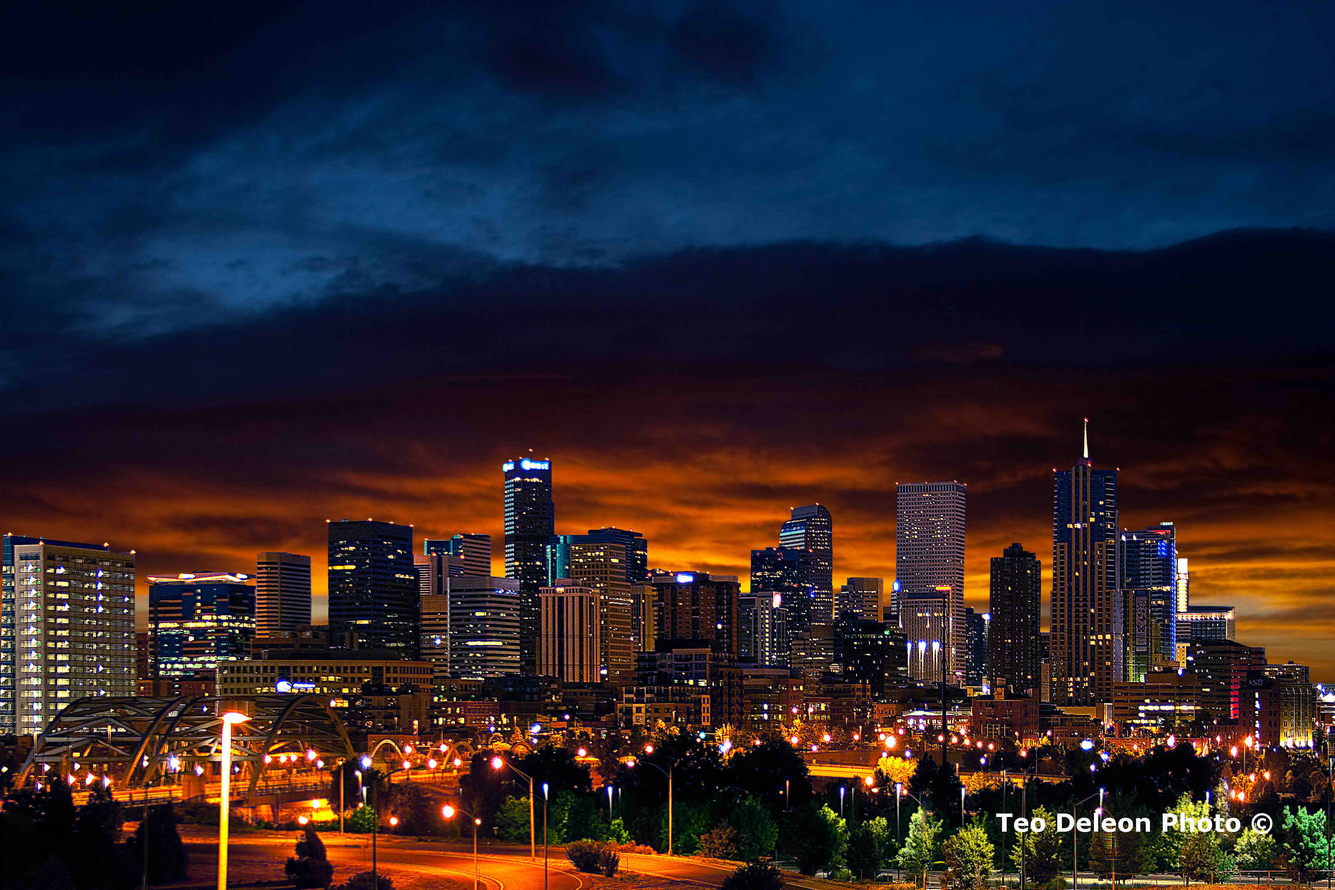
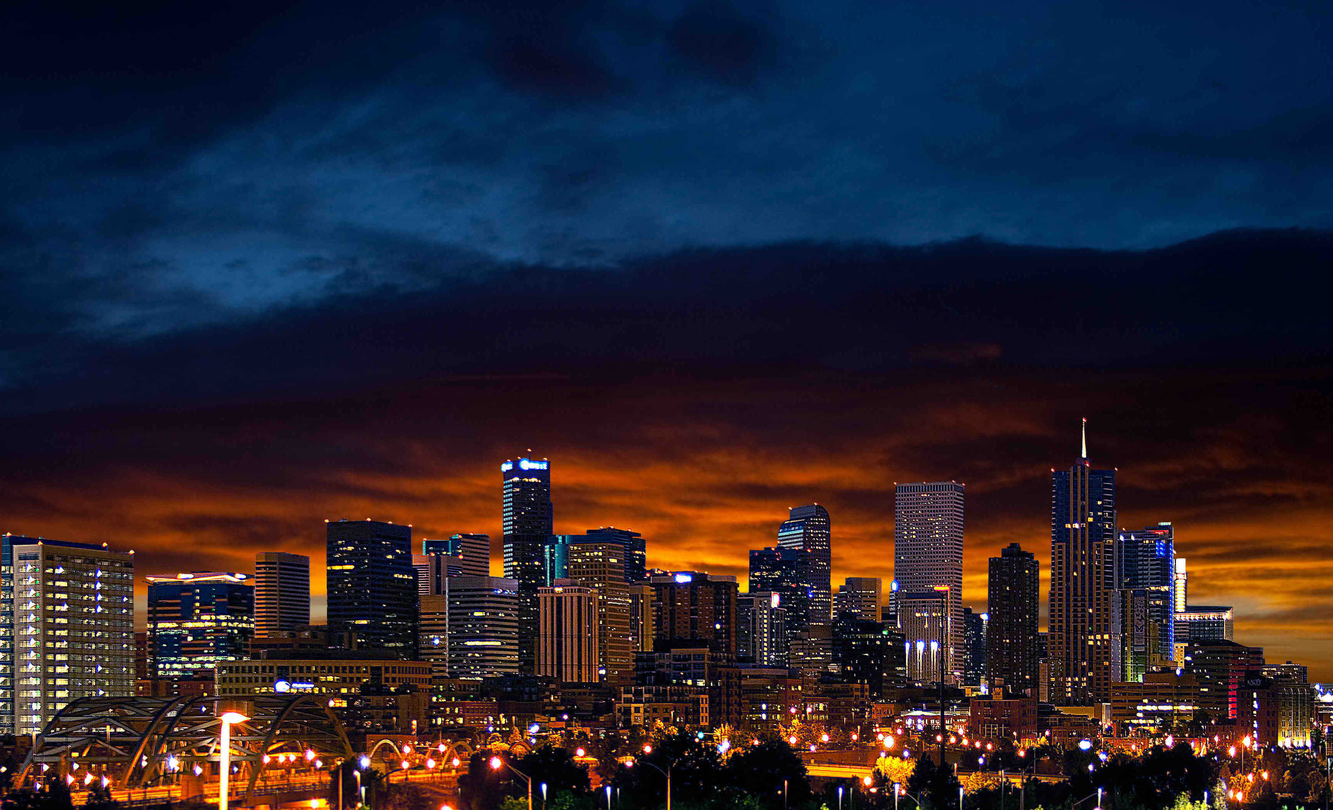
mess with images and css, a little clean up

diff --git a/assets/css/home.css b/assets/css/home.css
@@ -1,21 +1,20 @@
 body {
-  background-image: url('../images/creek.jpg');
+  background: url(../images/denver-skyline.jpeg) no-repeat center center fixed;
+  -webkit-background-size: cover;
+  -moz-background-size: cover;
+  -o-background-size: cover;
   background-size: cover;
   background-repeat: no-repeat
 }
 .tagline-1 {
-  margin-top: 15%;
+  margin-top: 20%;
 }
 .tagline-1, .tagline-2 {
   text-align: center;
   color: white;
 }
 @media only screen and (max-width : 992px) {
-  body {
-    background-image: url('../images/test.jpg');
-    background-size: cover;
-  }
   .tagline-row {
-    margin-top: 20% !important;
+    margin-top: 10% !important;
   }
 }

diff --git a/assets/css/all.css b/assets/css/all.css
@@ -77,7 +77,8 @@ header, main, footer {
     background-color: #3b3b3b;
   }
   .sidenav-trigger {
-    margin-top: -17% !important
+    margin-top: -7% !important;
+    margin-left: 2%;
   }
   .parallax-head {
     font-size: 90px;
